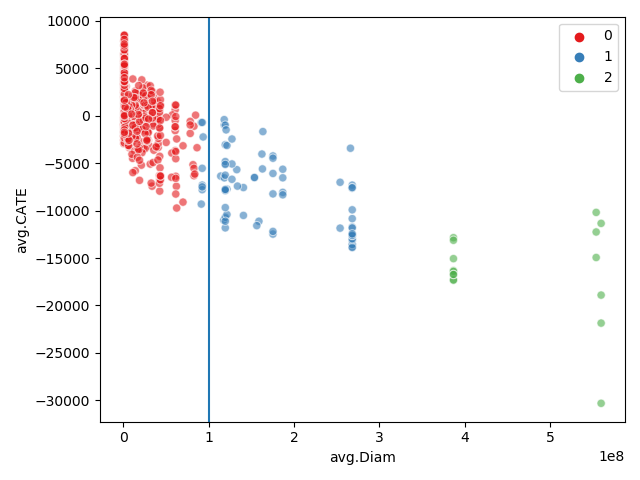
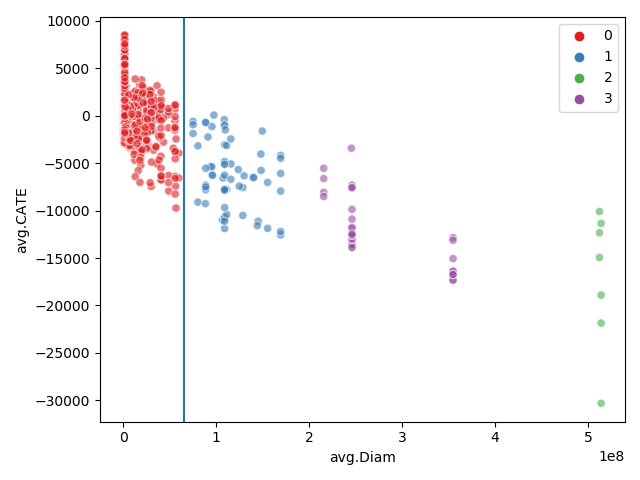
lalonde pruning

diff --git a/Experminents/lalonde_analysis.py b/Experminents/lalonde_analysis.py
@@ -58,21 +58,22 @@ cate_df['std.CATE'] = cate_df.std(axis=1)
 cate_df['re78'] = m.CATE_df['outcome'].mean(axis=1)
 cate_df['treat'] = m.CATE_df['treatment'].mean(axis=1)
 
-clust = cluster.KMeans(n_clusters=3).fit(cate_df['avg.Diam'].to_numpy().reshape(-1,1))
+np.random.seed(0)
+clust = cluster.KMeans(n_clusters=4).fit(cate_df['avg.Diam'].to_numpy().reshape(-1,1))
 
 fig = plt.figure()
 sns.scatterplot(y=cate_df['avg.CATE'],x=cate_df['avg.Diam'],hue=clust.labels_,alpha=0.6,palette='Set1')
-plt.axvline(1e8)
+plt.axvline(6.5e7)
 plt.tight_layout()
 fig.savefig('lalonde_pruning.png')
 
 print(np.mean(cate_df['avg.CATE']))
-print(cate_df.loc[cate_df['avg.Diam']<1e8]['avg.CATE'].mean())
+print(cate_df.loc[cate_df['avg.Diam']<6.5e7]['avg.CATE'].mean())
 print(cate_df.loc[cate_df['treat']==1]['avg.CATE'].mean())
 
 m_opt_list = pd.concat(m.M_opt_list)
 ate_df = np.mean(cate_df,axis=0)
 ate_df = ate_df.rename({'CATE':'ATE','avg.CATE':'avg.ATE'}).drop(['std.CATE'])
-ate_df['avg.ATE-Pruned'] = cate_df.loc[cate_df['avg.Diam']<1e8]['avg.CATE'].mean()
+ate_df['avg.ATE-Pruned'] = cate_df.loc[cate_df['avg.Diam']<6.5e7]['avg.CATE'].mean()
 ate_df['std.ATE'] = ate_df['ATE'].std()
 
